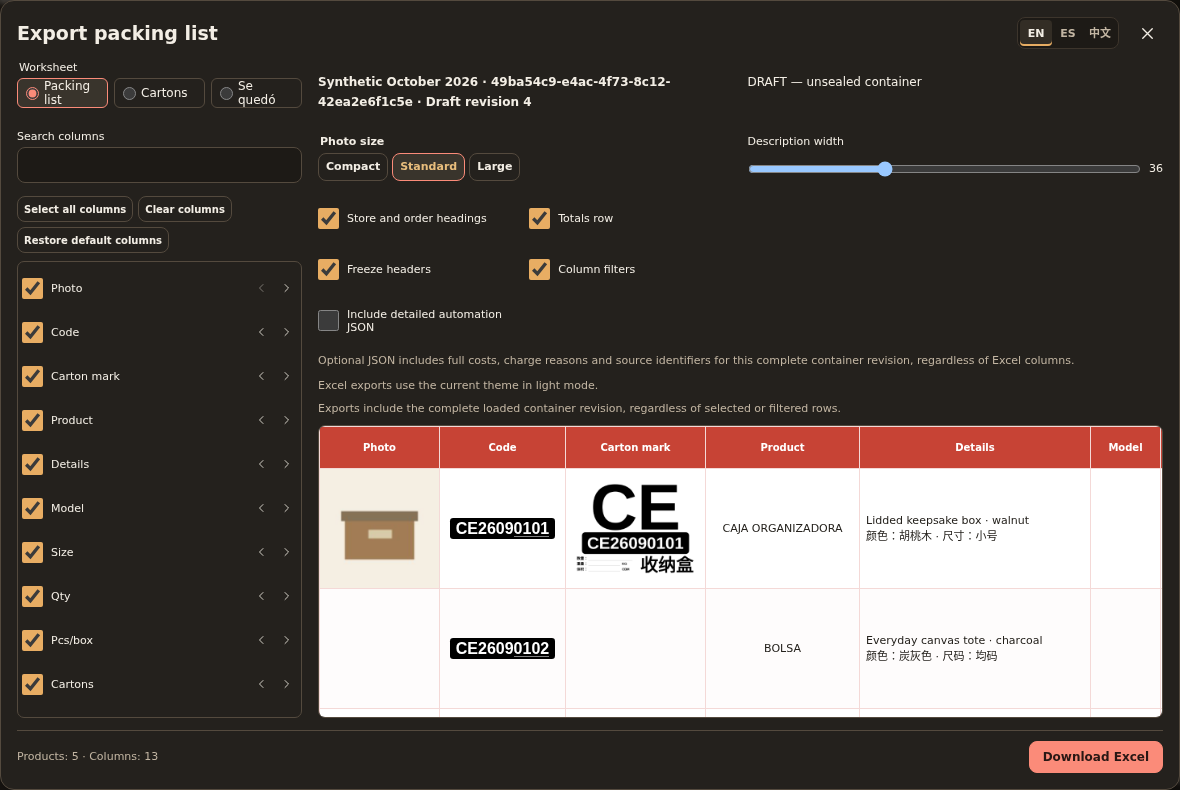
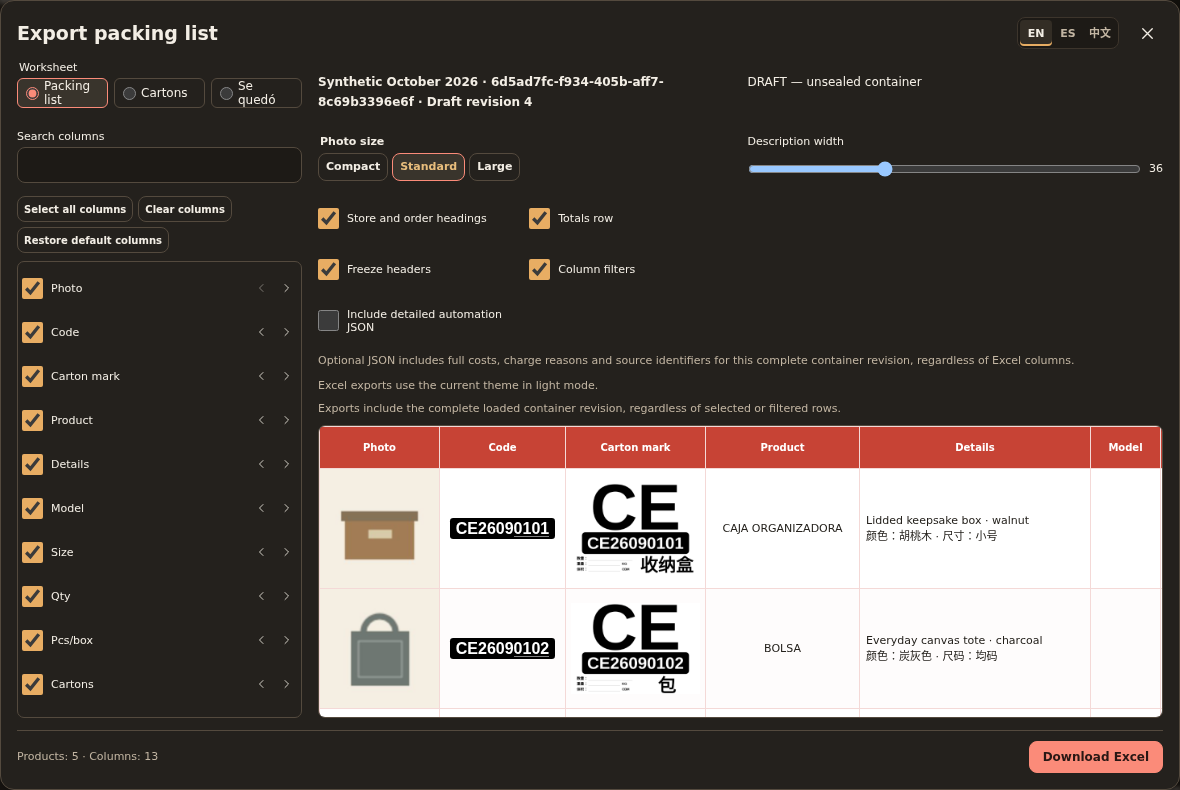
Record verified SEAL results and restore complete export preview

Changed region(s): [[0.2441, 0.7291, 0.3966, 0.9114], [0.4881, 0.7595, 0.6102, 0.881], [0.2746, 0.0911, 0.5797, 0.1519]]

diff --git a/CHROMEWEBSTORE.md b/CHROMEWEBSTORE.md
@@ -1,6 +1,6 @@
 # Chrome Web Store Listing — 1688toPL
 
-Last updated: 2026-10-22. **Local SEAL candidate, version 2.10.0; unpublished.** This file is the store metadata source of truth, not authorization to submit or release. Current verification is tracked below; historical test counts do not establish acceptance of this candidate.
+Last updated: 2026-10-23. **SEAL implementation, version 2.10.0; unpublished to the store.** This file is the store metadata source of truth, not authorization to submit or release. Current verification is tracked below; historical test counts do not establish acceptance of this candidate.
 
 ## Store Listing
 
@@ -36,13 +36,13 @@ Use one buyer account per library. Unsupported page layouts or inconsistent tota
 
 ## Graphics & Assets
 
-| Asset                  | Required dimensions     | Status / source                                                                                                                                                                                |
-| ---------------------- | ----------------------- | ---------------------------------------------------------------------------------------------------------------------------------------------------------------------------------------------- |
-| Icon                   | 128 × 128 PNG           | [Present](icons/icon128.png); rights/store suitability not established.                                                                                                                        |
-| Screenshot             | 1280 × 800 or 640 × 400 | [Orders](screenshots/order-library.png), [dark Orders](screenshots/order-library-dark.png), [packing](screenshots/preparation.png); synthetic documentation images, store composition pending. |
-| Additional screenshots | Same store sizes        | [Spreadsheet import](screenshots/store-spreadsheet-import.png), [label editor](screenshots/label-editor.png), [Settings](screenshots/settings.png).                                            |
-| Small promo tile       | 440 × 280               | Not created.                                                                                                                                                                                   |
-| Optional marquee       | 1400 × 560              | Not created.                                                                                                                                                                                   |
+| Asset                  | Required dimensions     | Status / source                                                                                                                                                                                                                                                               |
+| ---------------------- | ----------------------- | ----------------------------------------------------------------------------------------------------------------------------------------------------------------------------------------------------------------------------------------------------------------------------- |
+| Icon                   | 128 × 128 PNG           | [Present](icons/icon128.png); rights/store suitability not established.                                                                                                                                                                                                       |
+| Screenshot             | 1280 × 800 or 640 × 400 | [Orders](screenshots/order-library.png), [dark Orders](screenshots/order-library-dark.png), [Orders carton reconciliation](screenshots/order-cartons.png), [container loading](screenshots/container-loading.png); synthetic documentation images, store composition pending. |
+| Additional screenshots | Same store sizes        | [Spreadsheet import](screenshots/store-spreadsheet-import.png), [label editor](screenshots/label-editor.png), [Settings](screenshots/settings.png).                                                                                                                           |
+| Small promo tile       | 440 × 280               | Not created.                                                                                                                                                                                                                                                                  |
+| Optional marquee       | 1400 × 560              | Not created.                                                                                                                                                                                                                                                                  |
 
 Synthetic documentation images were refreshed for the renamed candidate, including the [packing export dialog](screenshots/packing-export.png). Store-sized composition is still pending. Confirm rights for 1688/Alibaba, spreadsheet and Casa Elida artwork or replace it before submission. A user-selected logo also needs appropriate rights. Do not imply affiliation.
 
@@ -111,15 +111,36 @@ Visibility/regions are unselected. Repository rename, local implementation or Gi
 
 | Version | Date       | Changes                                                                                                                                                                                                             | Status                                                                                                      |
 | ------- | ---------- | ------------------------------------------------------------------------------------------------------------------------------------------------------------------------------------------------------------------- | ----------------------------------------------------------------------------------------------------------- |
-| 2.10.0 | 2026-10-22 | Orders smart carton reconciliation, purchase-calendar codes, container loading/seal/amendments, immutable three-sheet output and compatible shipment/report backups. | Local implementation; unpublished. No store submission. |
-| 2.9.0   | 2026-10-22 | 1688toPL branding; opt-in detailed JSON; reachable/canonical backup photos; compatible scoped restore/settings initialization; shared XLSX/PDF media; repeat-workbook warning; organized illustrated documentation. | Historical local handoff: 1,047 unit tests and all 538 Chromium tests passed. No store submission.                   |
+| 2.10.0  | 2026-10-22 | Orders smart carton reconciliation, purchase-calendar codes, container loading/seal/amendments, immutable three-sheet output and compatible shipment/report backups.                                                | Local implementation; unpublished. No store submission.                                                     |
+| 2.9.0   | 2026-10-22 | 1688toPL branding; opt-in detailed JSON; reachable/canonical backup photos; compatible scoped restore/settings initialization; shared XLSX/PDF media; repeat-workbook warning; organized illustrated documentation. | Historical local handoff: 1,047 unit tests and all 538 Chromium tests passed. No store submission.          |
 | 2.9.0   | 2026-10-22 | Integrated manual/JSON/store orders, physical cartons, inline capacity planning, Organize, photo tools, operational costs and two-sheet packing exports.                                                            | Historical repository integration; [PR #20](https://github.com/j3w1/1688toPL/pull/20). No store submission. |
 
 Earlier release and verification chronology remains in Git history. It is not current-candidate acceptance.
 
 ## Review Notes
 
-### Development verification
+### SEAL 2.10.0 local verification — 2026-10-23
+
+The local candidate was checked with native Node.js 24 on Linux using synthetic fixtures and temporary browser profiles. These results cover the Orders/container implementation; they do not establish owner workflow acceptance or store readiness. The complete runtime verification belongs to commit `b829b6500bb59bf27a2e8a0d3e497d8e6718f515`, tree `404184bdb6f5d345bce27106e781bb08ef45be06`; this follow-up leaves its application and tests unchanged and restores the previously reviewed complete export-preview image.
+
+| Evidence                                  | Result                                                                                                                                                                                                                                                        |
+| ----------------------------------------- | ------------------------------------------------------------------------------------------------------------------------------------------------------------------------------------------------------------------------------------------------------------- |
+| Source syntax and documentation           | Passed.                                                                                                                                                                                                                                                       |
+| Unit regressions                          | Passed: 1,435 tests; zero failures, cancellations or skips.                                                                                                                                                                                                   |
+| Production rebuild                        | Passed: complete extension 2.10.0; 30 manifest resources checked.                                                                                                                                                                                             |
+| Complete Chromium suite                   | Passed: all 558 tests, serialized; zero failures, skips, retries or flaky results.                                                                                                                                                                            |
+| Real synthetic operator paths             | Passed: China 1,350-unit/15-carton import; exact uneven 1688 report (63 pieces, 57.22 kg, 0.461256 m³); and 100/45 remainder reconciliation, each through loading and seal.                                                                                   |
+| Migration, restore and immutable evidence | Passed automated synthetic checks, including actual pre-SEAL 2.9/464 full/monthly archives, original photo bytes, semantic quantities/value, held legacy evidence, ownership/witness dependencies and stale/forged-write refusal.                             |
+| Physical marks and PDF generation         | Passed automated recorded/current mark, fresh relabel/keep, returned-carton recovery, historical reprint and stale-render/no-side-effect checks. PDF evidence is separate from physical printing.                                                             |
+| Portable local trial                      | Passed tests and complete development build, then reported `no local trial target: nothing loaded`; loaded, staged and verified were all false. No installation or owner database was touched.                                                                |
+| Synthetic screenshots                     | Passed generation of 13 repository images and two narrow captures. Changed images were viewed; the complete export-preview image was retained from its reviewed, byte-identical prior capture after a loading race in regeneration. No older UI was restored. |
+| Installed extension / owner acceptance    | Not run: no local trial target is configured; the old owner install/database were deleted by owner order and were excluded.                                                                                                                                   |
+| Native Excel                              | Not run. Actual XLSX, formula, media and clipboard assertions are automated evidence.                                                                                                                                                                         |
+| Physical print / hardware scanner         | Not run.                                                                                                                                                                                                                                                      |
+
+The extension key and durable `1688-order-library` database/backup compatibility identifiers remain unchanged. Fresh physical relabel confirmation inside a cancelable shipment amendment is refused; keep/history and proposed printing remain available. Complete the amendment or use unsealed cartons before recording actual relabeling. The SEAL remains open for owner workflow acceptance; no store submission is claimed.
+
+### Historical 2.9.0 handoff verification
 
 The renamed 2.9.0 handoff and its verification corrections were checked on 2026-10-22 using native Node.js 24 on Linux and synthetic data in temporary browser profiles. The export tests explicitly opt into detailed automation JSON while retaining workbook, cost and summary-content assertions. Narrow export controls remain clickable without forcing pointer actions.
 
